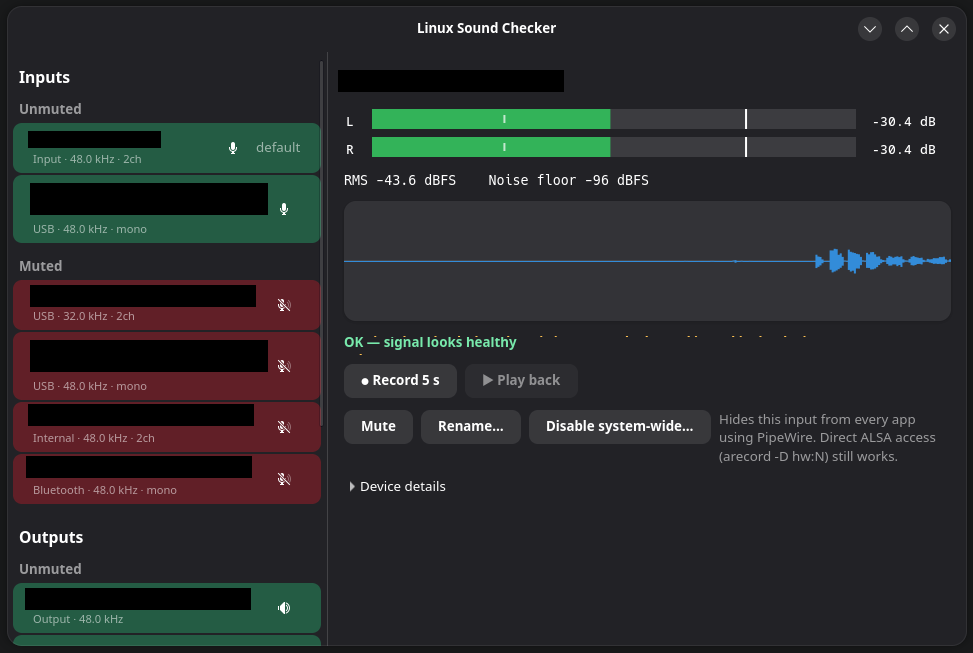
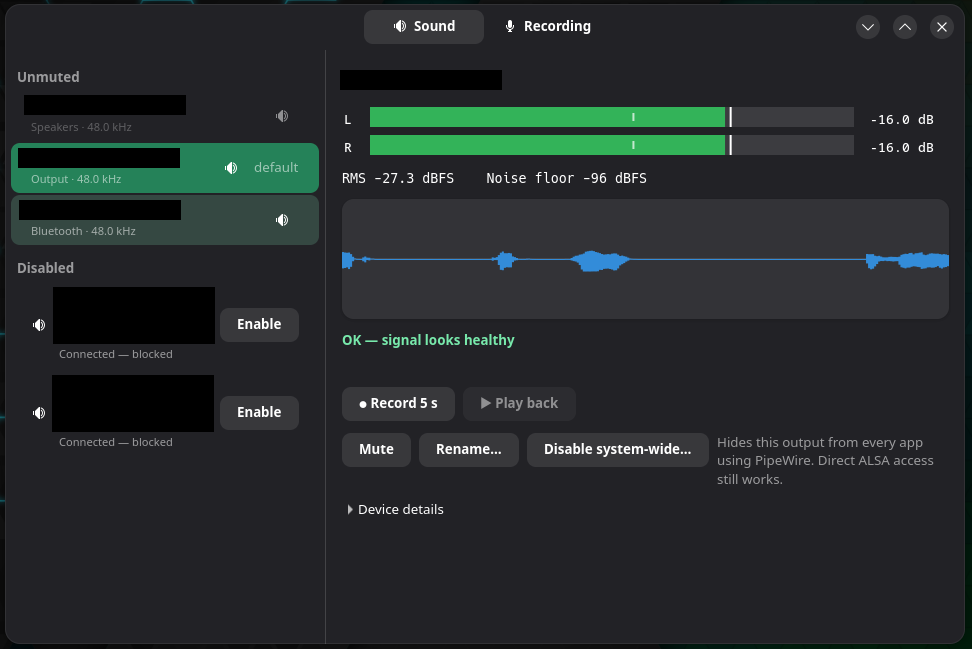
refactor(readme): remove outdated UI sketch to streamline documentation

diff --git a/README.md b/README.md
@@ -31,23 +31,6 @@ Open tasks are in [TODO.md](TODO.md).
 | Device details          | Sample rate, format, channel map, driver, card/bus info                   |
 | Live monitoring         | Every unmuted input and every output (via its monitor source) is metered continuously; selecting a device just shows its meters, waveform and recording. Captures don't keep sleeping devices awake. Muted inputs show "Muted" and an empty meter (the server mutes before the app can see the signal) |
 
-## UI sketch
-
-```
-┌ Linux Sound Checker ── [ Sound | Recording ] ────────────────┐
-│ Unmuted                       │ Live analysis                │
-│ ▌Built-in Microphone  default │  L ████████████░░░░  -6.2 dB │
-│ ▌USB Headset Microphone    🎤 │  R ███████████░░░░░  -7.0 dB │
-│ Muted                         │  RMS -21.4 dBFS  Noise -62   │
-│ ▌Webcam Mic (red)          🔇 │  ~~~~~ waveform ~~~~~        │
-│ No microphone                 │  Status: OK / Clipping / ... │
-│ BT Headset [Switch to headset]│  [● Record 5s] [▶ Play back] │
-│ Disabled                      │  [Mute] [Rename…] [Disable…] │
-│ ▌Old mic          [Enable]    │                              │
-└───────────────────────────────┴──────────────────────────────┘
-(the Sound tab lists outputs the same way; playing outputs are green)
-```
-
 ## Design decisions
 
 | Topic        | Choice                                                                 |
